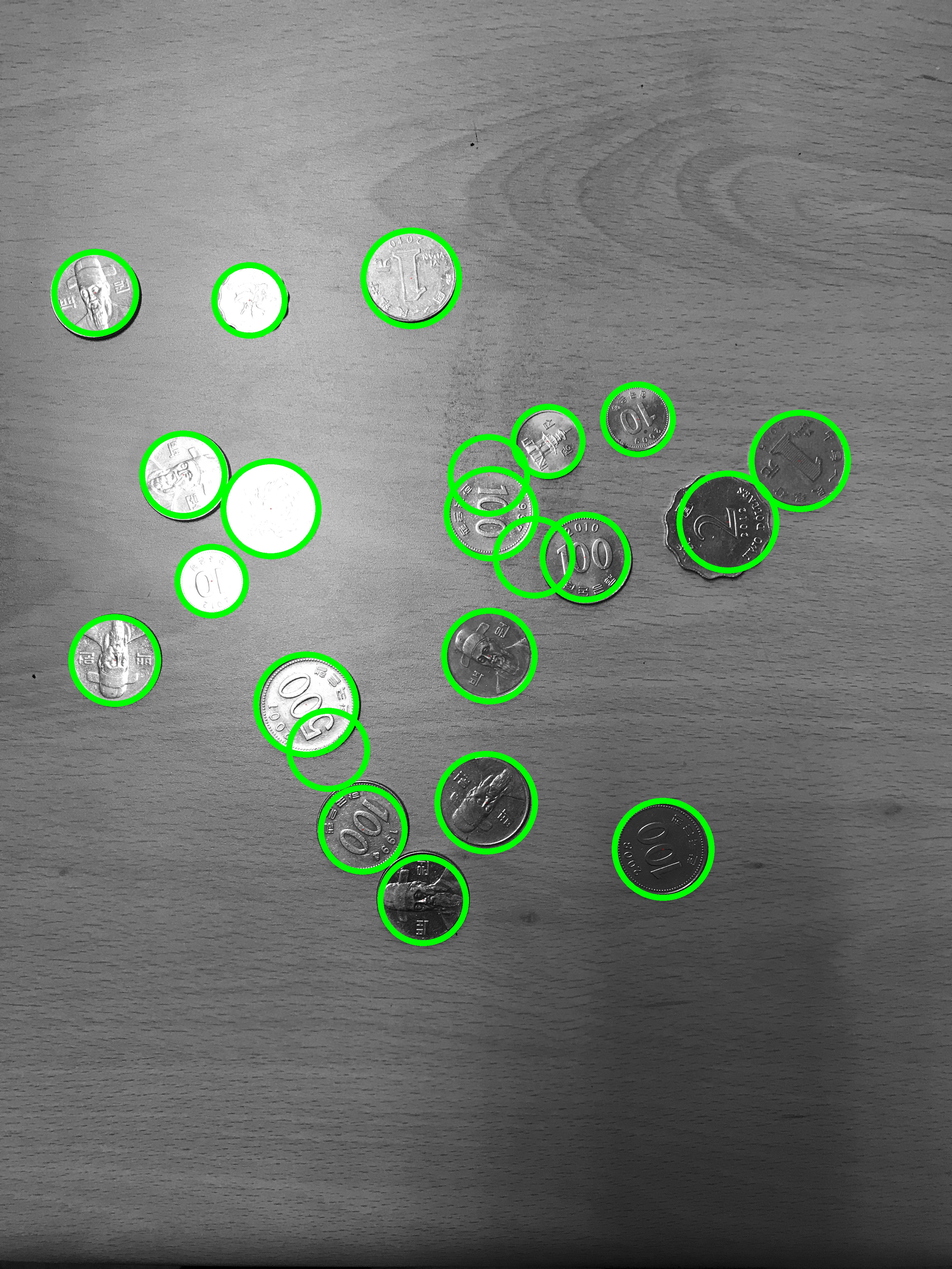
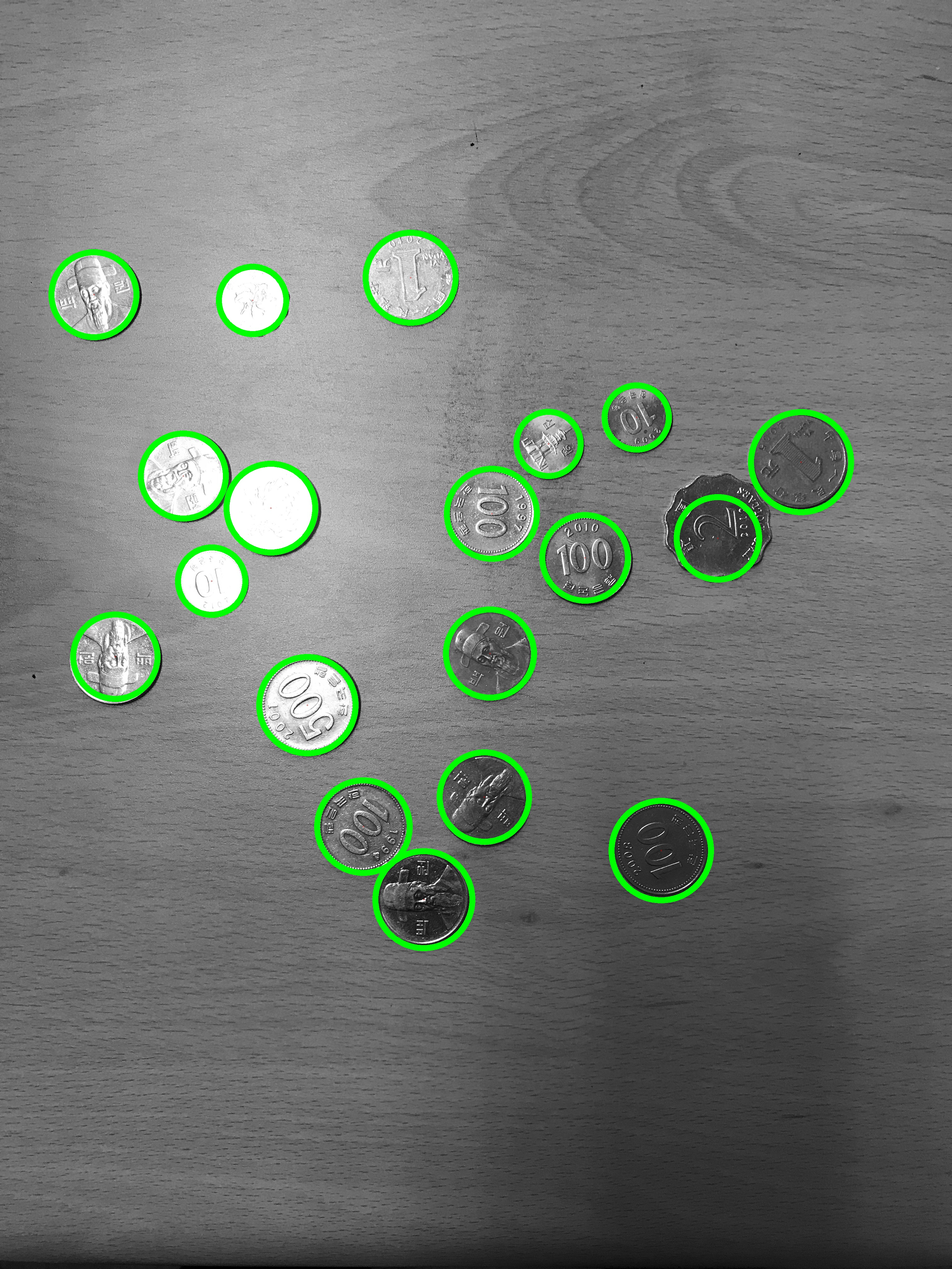
Add files via upload

diff --git a/HomeWork1/countcoin.py b/HomeWork1/countcoin.py
@@ -4,10 +4,10 @@ def run_main():
     img = cv2.imread('/home/wad/homeWork/computerVisionClass/HomeWork1/image4.JPG',0)
     cimg = cv2.cvtColor(img,cv2.COLOR_GRAY2BGR)
     # img = cv2.medianBlur(img,55)
-    img = cv2.bilateralFilter(img,17,105,105)
+    img = cv2.bilateralFilter(img,25,100,100)
     img = cv2.medianBlur(img,5)
     
-    circles = cv2.HoughCircles(img,cv2.HOUGH_GRADIENT,0.9,120,param1=50,param2=30,minRadius=105,maxRadius=200)
+    circles = cv2.HoughCircles(img,cv2.HOUGH_GRADIENT,0.9,120,param1=50,param2=30,minRadius=100,maxRadius=180)
 
     circles = np.uint16(np.around(circles))
     for i in circles[0,:]:
